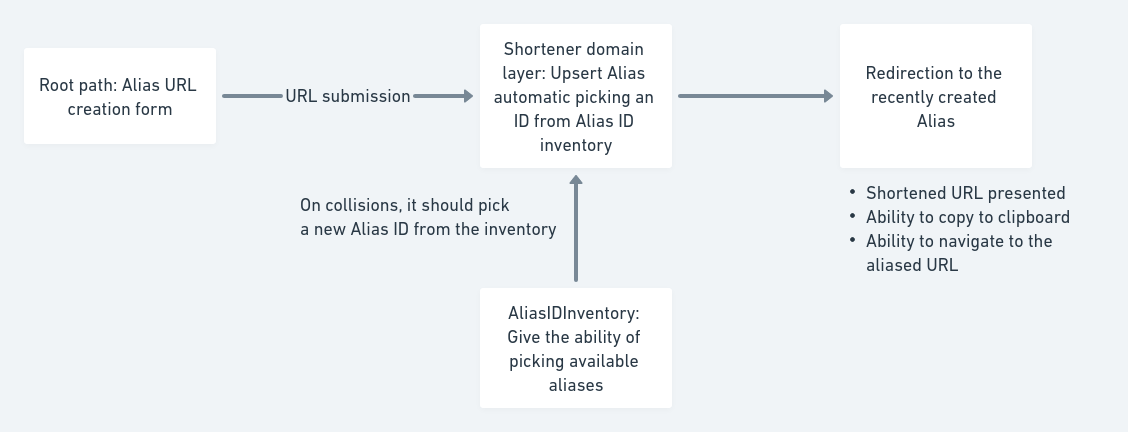
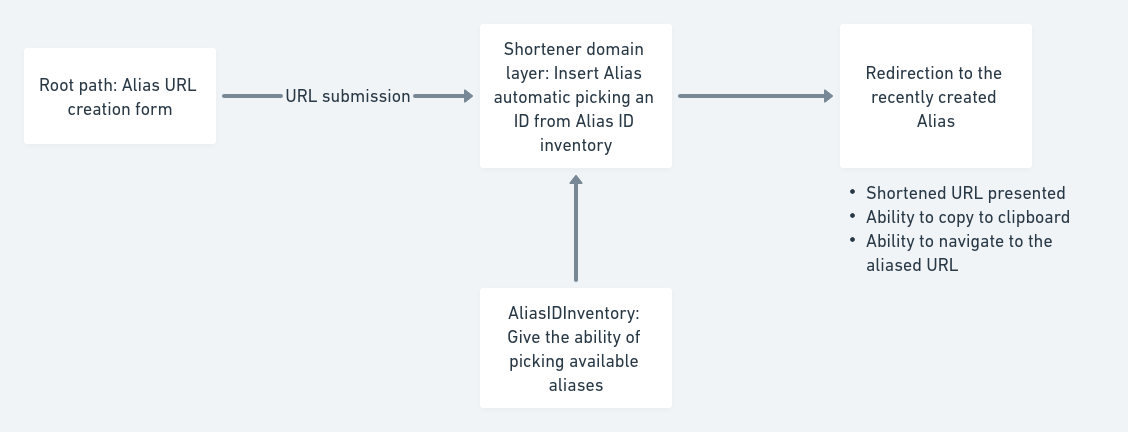
Remove the automatic Alias conflict resolution
Although the Alias ID inventory generates strong random IDs
there is a chance to get ID colisions.

In a colision scenario the upser behavior will not work as expected.
It overrides the Alias found.

Since the insert Alias function rely on the Alias ID inventory.
The resposability of not generate colisions come from the inventory.

Changed region(s): [[0.2482, 0.4514, 0.4965, 0.5417], [0.4344, 0.1505, 0.5895, 0.1806]]

diff --git a/docs/use_cases/alias_creation.md b/docs/use_cases/alias_creation.md
@@ -14,6 +14,5 @@
 
 ## Notes
 
-1. There is an automatic conflict resolution when there is an ID collision. That resolution function should change the ID picked every time.
-2. You can pass an optional ID to the insert function. That enables ID customization.
-3. The Alias ID inventory implementation takes a random ID. It doesn't check inventory. A more robust implementation should rely on a previous created inventory with allocation constraints.
+1. You can pass an optional ID to the insert function. That enables ID customization.
+2. The Alias ID inventory implementation takes a random ID. It doesn't check inventory. A more robust implementation should rely on a previous created inventory with allocation constraints.
